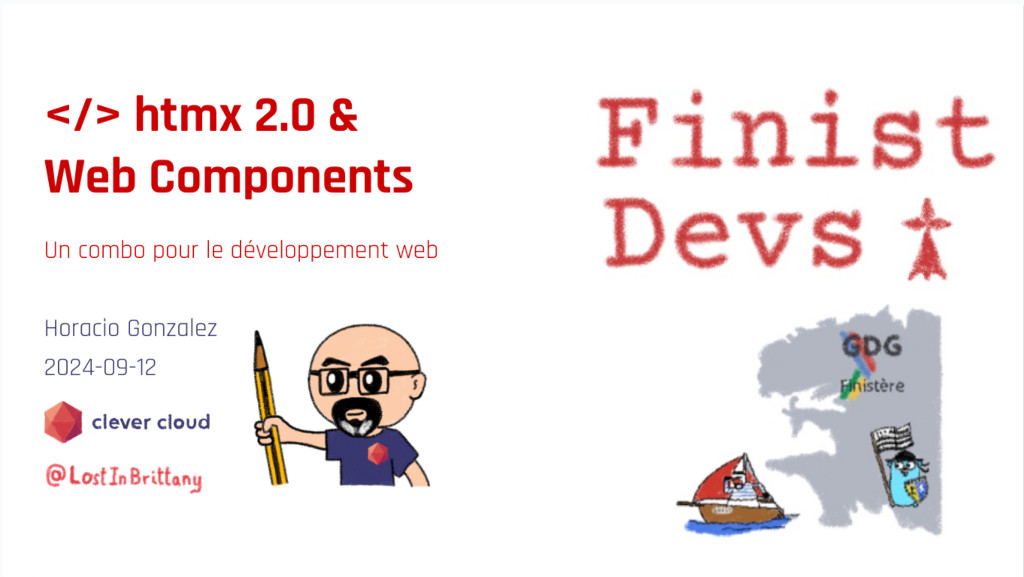
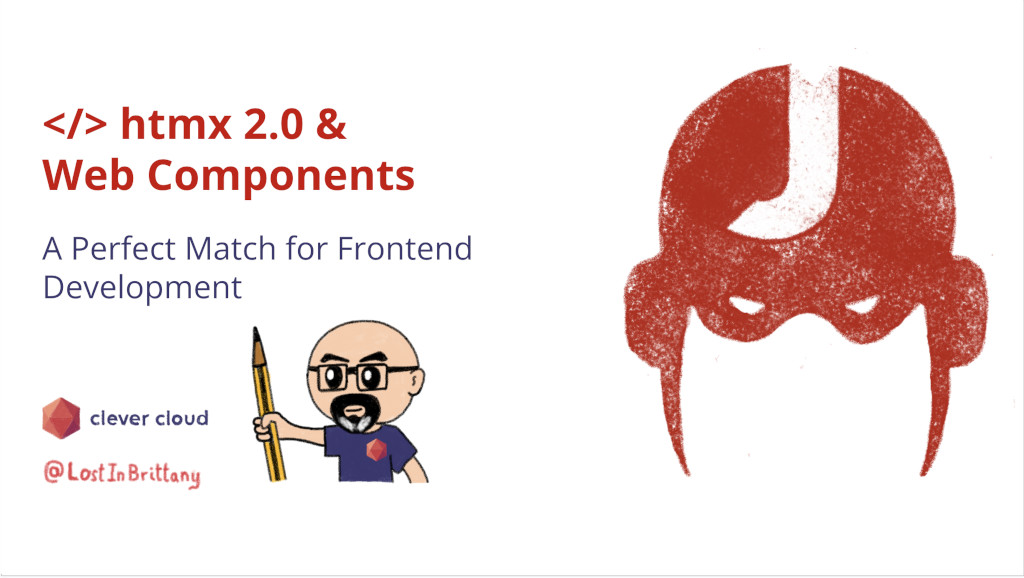
Updating for Jfokus 2025

diff --git a/README.md b/README.md
@@ -1,8 +1,9 @@
-# Introduction to </> htmx
+# </> htmx & Web Components: A Perfect Match for Frontend Development
 
 This repository stores all the code for my talk _htmx 2.0 & Web Components: A Perfect Match for Frontend Development_ , that I have given at:
 
-- 2024-09-24 - [FinistDevs](https://www.meetup.com/finistdevs/events/303367921/) 
+- 2024-09-24 - [FinistDevs](https://noti.st/lostinbrittany/YtYnR4/htmx-2-0-web-components-a-perfect-match-for-frontend-development) 
+- 2025-02-04 - [Jfokus](https://www.jfokus.se/talks/2244) 
 
   ![Introduction to </> htmx](./img/screenshot-1024px.jpg)
 
